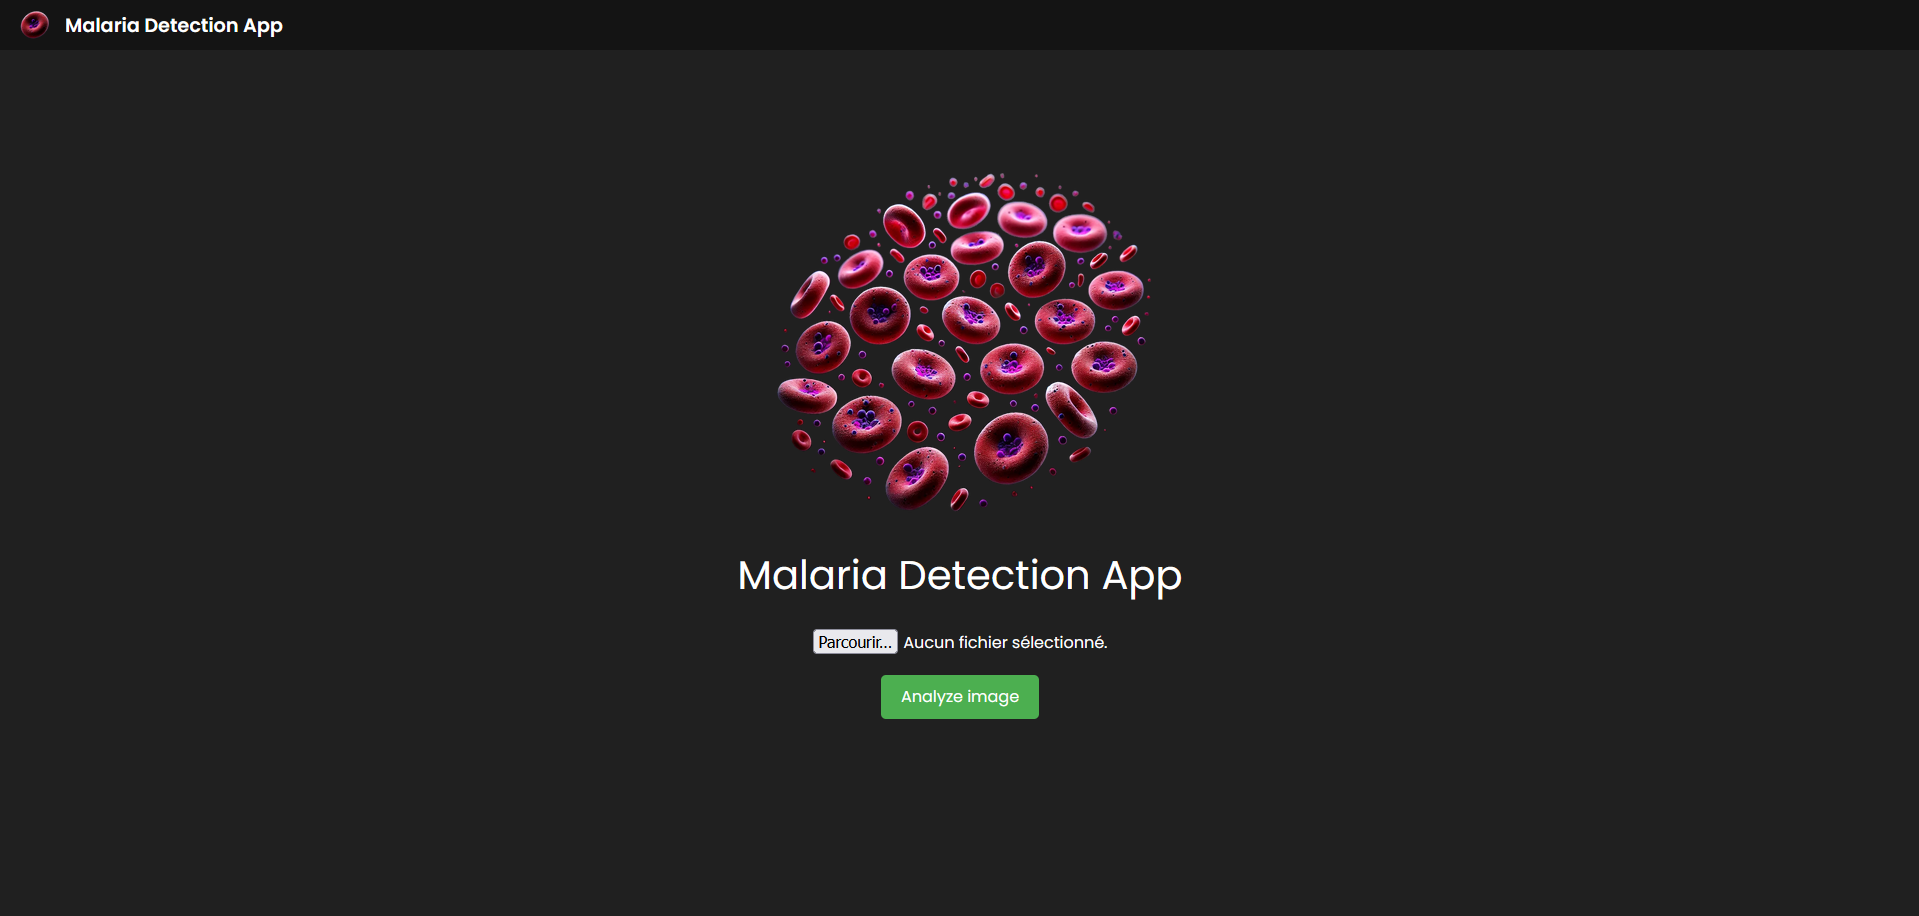
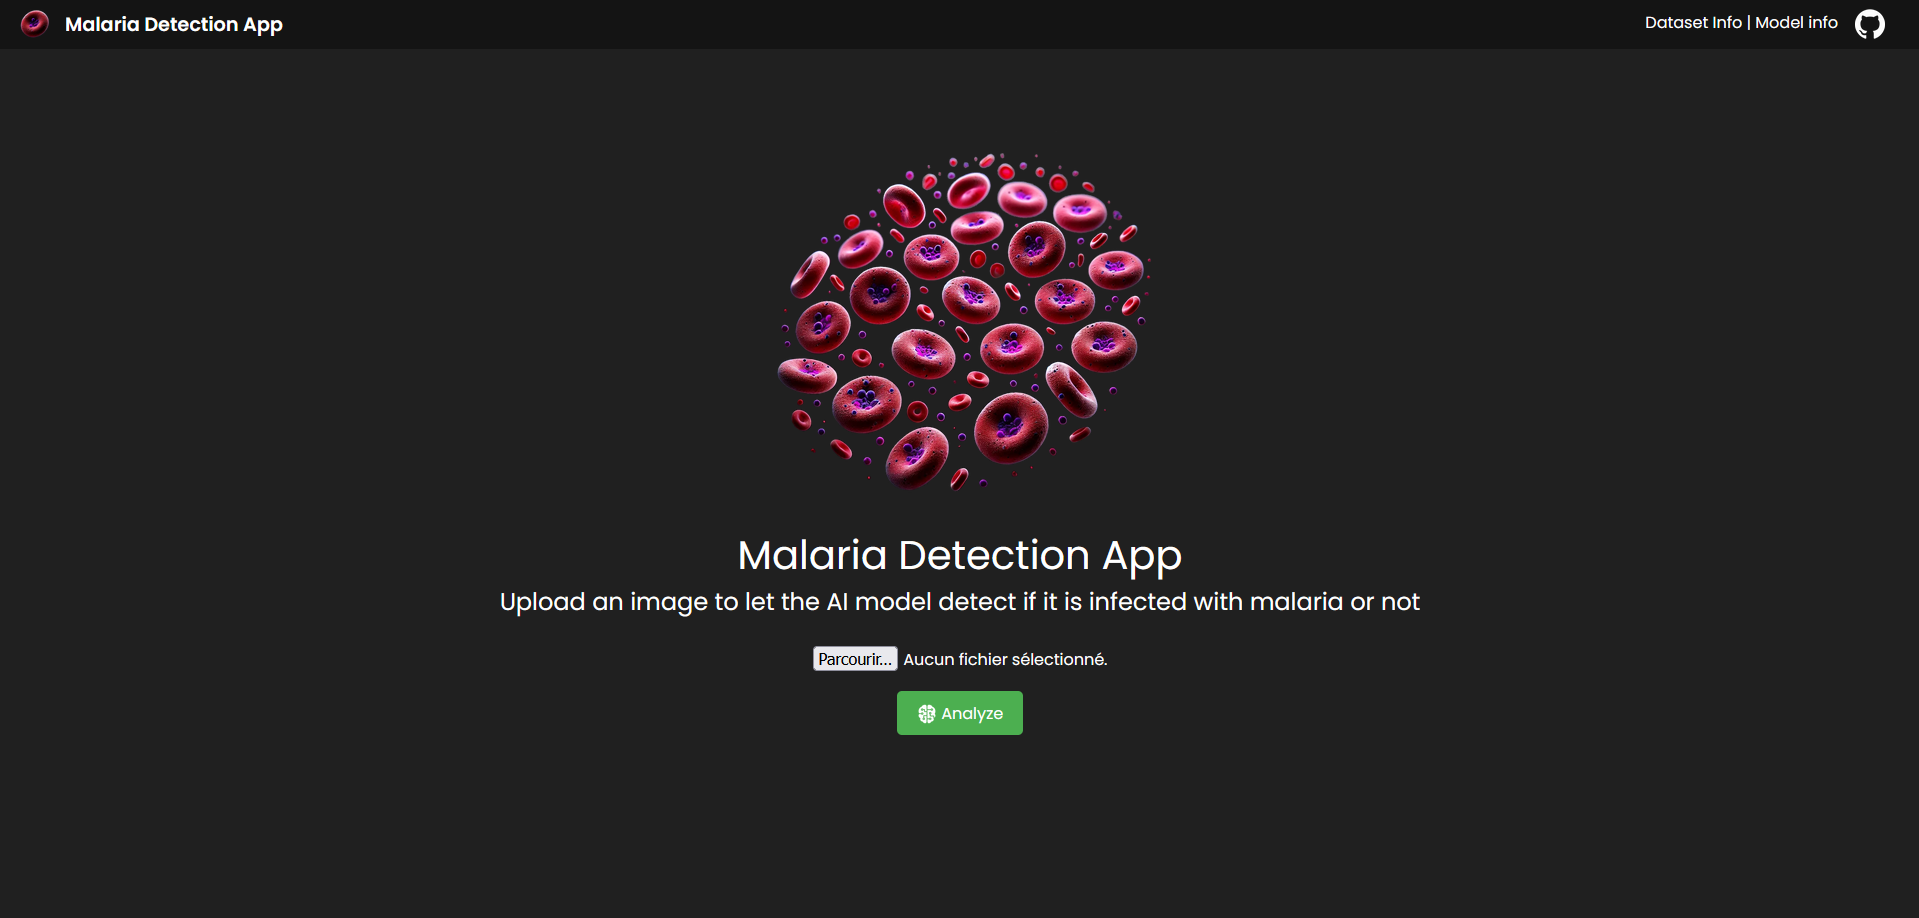
updated index.html & base.html template + screenshot

diff --git a/src/templates/base.html b/src/templates/base.html
@@ -34,6 +34,7 @@
             position: fixed;
             top: 0;
             z-index: 1000;
+            /* display: inline; */
         }
         .top-banner a {
             display: flex;
@@ -57,48 +58,31 @@
             padding-left: 0px;
             padding-right: 0px;
         }
-        .auth-links {
-            font-size: 1em;
-            display: flex;
-            align-items: center;
+        .inline-links {
+            display: inline-block; /* Ensures the container acts like an inline element */
+            text-align: left;      /* Optional: Align text */
+            vertical-align: middle; /* Optional: Adjust vertical alignment */
         }
-        .auth-links a {
-            color: white;
-            margin-left: 10px;
-            text-decoration: none;
-            padding: 0 12px;
-            border-radius: 5px;
-            height: 30px;
-            line-height: 30px;
-        }
-        .auth-links a.login {
-            background-color: #4CAF50;
-        }
-        .auth-links a.logout {
-            background-color: #f44336;
-        }
-        .auth-links a.login:hover {
-            background-color: #45a049;
-        }
-        .auth-links a.logout:hover {
-            background-color: #e53935;
-        }
-        .auth-links .user-list-link {
-            color: rgb(160, 160, 160);
-            margin-right: 20px;
-            text-decoration: none;
-        }
-        .auth-links i {
-            margin-right: 5px;
+        .inline-links a {
+            display: inline;       /* Ensure links remain inline */
+            /* margin-right: 10px; */    /* Adds spacing between links (optional) */
+            text-decoration: none; /* Optional: Removes underline for cleaner look */
         }
     </style>
 </head>
 <body>
     <div class="top-banner">
-        <a href="{{ url_for('main.index') }}">
-            <img src="{{ url_for('static', filename='img/logo.png') }}" alt="Logo">
-            <h1>Malaria Detection App</h1>
-        </a>
+        <div class="top-banner-title">
+            <a href="{{ url_for('main.index') }}">
+                <img src="{{ url_for('static', filename='img/logo.png') }}" alt="Logo">
+                <h1>Malaria Detection App</h1>
+            </a>
+        </div>
+        <div class="inline-links">
+            <a href="https://www.tensorflow.org/datasets/catalog/malaria?hl=fr">Dataset Info</a> |
+            <a href="https://www.tensorflow.org/tutorials/images/classification?hl=fr">Model info</a>&nbsp; &nbsp;
+            <a href="https://github.com/TonyVallad/Malaria-Detection-App" target="_blank"><img src="{{ url_for('static', filename='img/github_dark.png') }}" alt="Logo"></a>
+        </div>
     </div>
 
     <!-- Content block for specific pages -->

diff --git a/src/templates/index.html b/src/templates/index.html
@@ -10,11 +10,13 @@
                 <img src="{{ url_for('static', filename='img/cells.webp') }}" alt="Site Logo" style="max-width: 400px; height: auto; margin-bottom: 0px;">
                 <h1>Malaria Detection App</h1>
 
+                <h4>Upload an image to let the AI model detect if it is infected with malaria or not</h4>
+
                 <!-- File Upload Section -->
                 <form action="{{ url_for('main.upload_file') }}" method="POST" enctype="multipart/form-data" style="margin-top: 20px;">
-                    <input type="file" name="file" id="file-upload" accept=".jpg,.jpeg,.png,.pdf,.txt" style="margin-top: 10px;">
+                    <input type="file" name="file" id="file-upload" accept=".jpg,.jpeg,.png" style="margin-top: 10px;">
                     <br>
-                    <button type="submit" style="background-color: #4CAF50; color: white; border: none; padding: 10px 20px; font-size: 16px; margin-top: 20px; cursor: pointer; border-radius: 5px;">Analyze image</button>
+                    <button type="submit" style="background-color: #4CAF50; color: white; border: none; padding: 10px 20px; font-size: 16px; margin-top: 20px; cursor: pointer; border-radius: 5px;"><img src="https://img.icons8.com/?size=100&id=62903&format=png&color=FFFFFF" alt="Search" style="max-height: 20px;"> Analyze</button>
                 </form>
             </div>
         </div>
